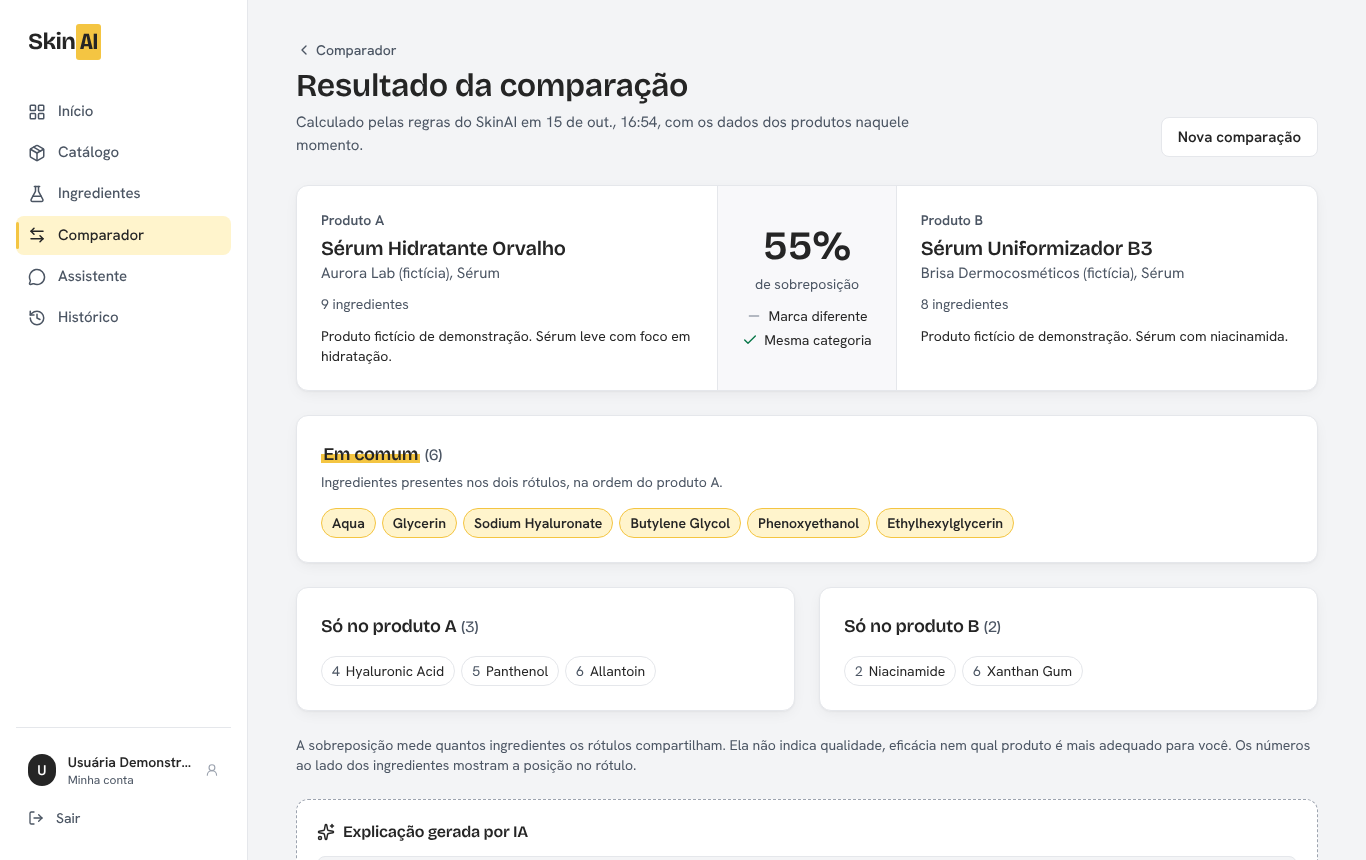
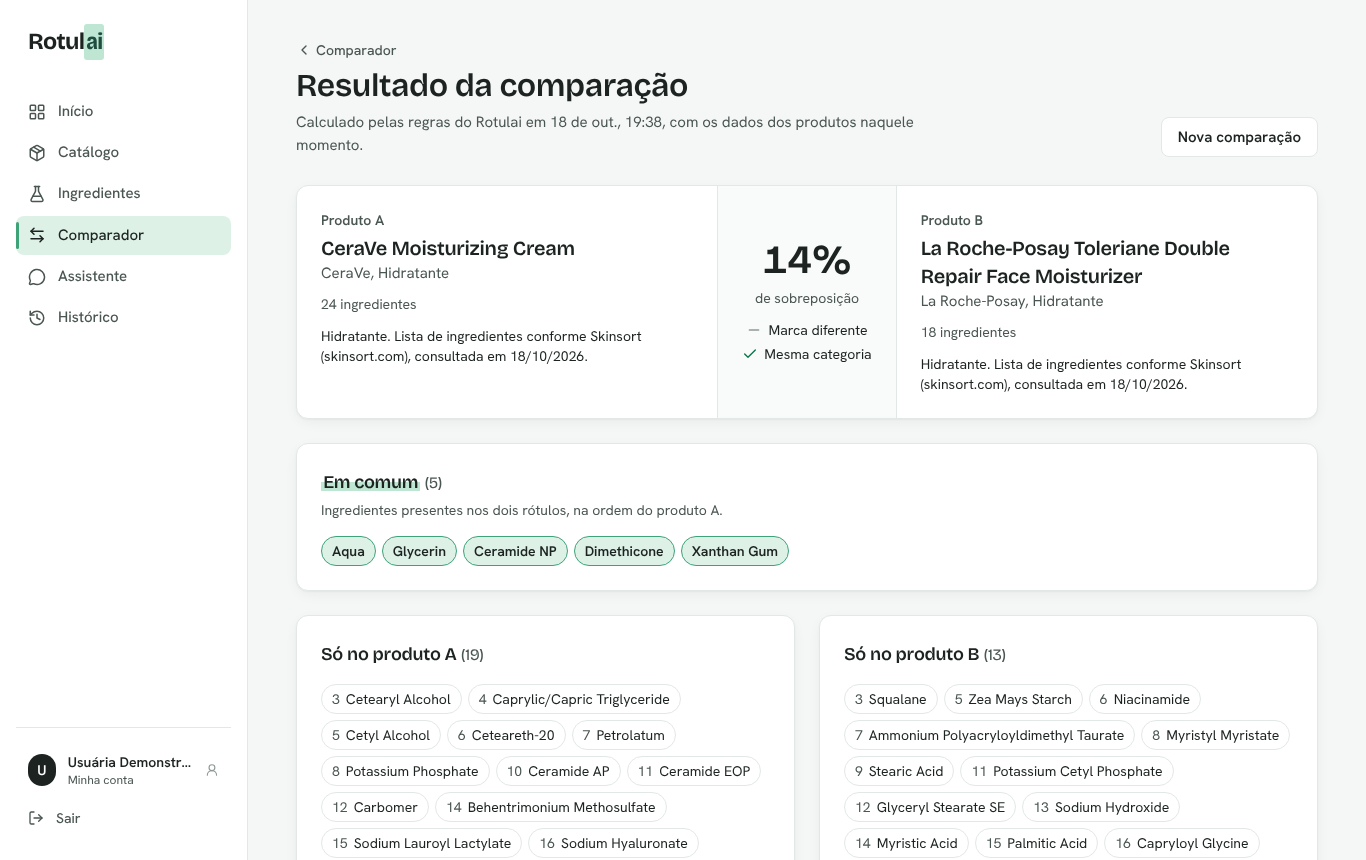
docs: atualiza README, arquitetura e capturas de tela para o Rotulai e o novo catálogo

diff --git a/README.md b/README.md
@@ -1,10 +1,10 @@
-# SkinAI
+# Rotulai
 
 Plataforma full stack para organizar cosméticos, entender ingredientes de rótulos e comparar produtos, com um assistente de inteligência artificial integrado pelo servidor.
 
-![Dashboard do SkinAI](docs/screenshots/dashboard.png)
+![Dashboard do Rotulai](docs/screenshots/dashboard.png)
 
-> **Aviso:** o SkinAI fornece informações educacionais. Não diagnostica doenças, não prescreve tratamentos, não garante ausência de alergias e não substitui a orientação de um dermatologista.
+> **Aviso:** o Rotulai fornece informações educacionais. Não diagnostica doenças, não prescreve tratamentos, não garante ausência de alergias e não substitui a orientação de um dermatologista.
 
 ## Sumário
 
@@ -24,7 +24,7 @@ Plataforma full stack para organizar cosméticos, entender ingredientes de rótu
 
 ## Problema
 
-Rótulos de cosméticos usam a nomenclatura INCI, em inglês ou latim, e listas longas de ingredientes. Quem quer entender o que está usando acaba alternando entre buscas na internet, conteúdos sem fonte e anotações soltas. O SkinAI centraliza esse fluxo:
+Rótulos de cosméticos usam a nomenclatura INCI, em inglês ou latim, e listas longas de ingredientes. Quem quer entender o que está usando acaba alternando entre buscas na internet, conteúdos sem fonte e anotações soltas. O Rotulai centraliza esse fluxo:
 
 - um catálogo pessoal com a lista de ingredientes de cada produto;
 - uma base de referência de ingredientes com conteúdo revisado e fontes para verificação;
@@ -33,15 +33,15 @@ Rótulos de cosméticos usam a nomenclatura INCI, em inglês ou latim, e listas 
 
 ## Funcionalidades
 
-| Área                  | O que faz                                                                                                                                                                                                                                                                           |
-| --------------------- | ----------------------------------------------------------------------------------------------------------------------------------------------------------------------------------------------------------------------------------------------------------------------------------- |
-| **Autenticação**      | Cadastro, login, sessão persistente com rotação de refresh token, logout e exclusão de conta com todos os dados.                                                                                                                                                                    |
-| **Dashboard**         | Saudação, indicadores reais (produtos, ingredientes consultados, comparações, conversas), atividade recente, produtos por categoria e acessos rápidos.                                                                                                                              |
-| **Catálogo**          | Listagem paginada, cadastro, edição, exclusão com confirmação, busca por nome ou marca, filtro por categoria e página de detalhes. Ingredientes são extraídos do texto do rótulo e vinculados ao catálogo global sem duplicação (inclusive por sinônimo: "Glicerina" = "Glycerin"). |
-| **Ingredientes**      | Consulta por nome INCI ou nome comum, base de referência com 30 ingredientes revisados, sinônimos, funções, uso, cuidados e fontes. Conteúdo da base e explicação da IA aparecem em blocos separados. Quando não há informação confiável, a interface informa a limitação.          |
-| **Comparador**        | Ingredientes em comum, exclusivos de cada produto, marca, categoria, descrições e percentual de sobreposição (índice de Jaccard). A IA pode explicar as diferenças, sem declarar qual produto é melhor.                                                                             |
-| **Assistente SkinAI** | Chat com histórico, sugestões iniciais, contexto opcional de até 2 produtos do catálogo, limite de caracteres, indicador de digitação e mensagens claras de indisponibilidade.                                                                                                      |
-| **Histórico**         | Consultas de ingredientes, comparações e conversas persistidas no PostgreSQL, com exclusão individual, limpeza por tipo e política de retenção visível ao usuário.                                                                                                                  |
+| Área                   | O que faz                                                                                                                                                                                                                                                                           |
+| ---------------------- | ----------------------------------------------------------------------------------------------------------------------------------------------------------------------------------------------------------------------------------------------------------------------------------- |
+| **Autenticação**       | Cadastro, login, sessão persistente com rotação de refresh token, logout e exclusão de conta com todos os dados.                                                                                                                                                                    |
+| **Dashboard**          | Saudação, indicadores reais (produtos, ingredientes consultados, comparações, conversas), atividade recente, produtos por categoria e acessos rápidos.                                                                                                                              |
+| **Catálogo**           | Listagem paginada, cadastro, edição, exclusão com confirmação, busca por nome ou marca, filtro por categoria e página de detalhes. Ingredientes são extraídos do texto do rótulo e vinculados ao catálogo global sem duplicação (inclusive por sinônimo: "Glicerina" = "Glycerin"). |
+| **Ingredientes**       | Consulta por nome INCI ou nome comum, base de referência com 30 ingredientes revisados, sinônimos, funções, uso, cuidados e fontes. Conteúdo da base e explicação da IA aparecem em blocos separados. Quando não há informação confiável, a interface informa a limitação.          |
+| **Comparador**         | Ingredientes em comum, exclusivos de cada produto, marca, categoria, descrições e percentual de sobreposição (índice de Jaccard). A IA pode explicar as diferenças, sem declarar qual produto é melhor.                                                                             |
+| **Assistente Rotulai** | Chat com histórico, sugestões iniciais, contexto opcional de até 2 produtos do catálogo, limite de caracteres, indicador de digitação e mensagens claras de indisponibilidade.                                                                                                      |
+| **Histórico**          | Consultas de ingredientes, comparações e conversas persistidas no PostgreSQL, com exclusão individual, limpeza por tipo e política de retenção visível ao usuário.                                                                                                                  |
 
 ### Telas
 
@@ -86,7 +86,7 @@ Detalhes em [docs/ARQUITETURA.md](docs/ARQUITETURA.md).
 ## Estrutura de pastas
 
 ```
-SkinAI/
+Rotulai/
 ├── backend/
 │   ├── prisma/              # schema, migrações versionadas e seed
 │   ├── src/
@@ -123,8 +123,8 @@ SkinAI/
 ### 1. Instalar dependências
 
 ```bash
-git clone https://github.com/MilenaAmaral/SkinAI.git
-cd SkinAI
+git clone https://github.com/MilenaAmaral/Rotulai.git
+cd Rotulai
 npm run setup        # instala tudo e gera o Prisma Client
 ```
 
@@ -134,7 +134,7 @@ npm run setup        # instala tudo e gera o Prisma Client
 npm run db:up        # docker compose up -d db
 ```
 
-O contêiner cria o usuário `skinai` (senha `skinai`), o banco `skinai` e o banco de testes `skinai_test`. Com um PostgreSQL próprio, crie os dois bancos e ajuste `DATABASE_URL` e `TEST_DATABASE_URL`.
+O contêiner cria o usuário `rotulai` (senha `rotulai`), o banco `rotulai` e o banco de testes `rotulai_test`. Com um PostgreSQL próprio, crie os dois bancos e ajuste `DATABASE_URL` e `TEST_DATABASE_URL`.
 
 ### 3. Configurar variáveis de ambiente
 
@@ -155,10 +155,19 @@ node -e "console.log(require('crypto').randomBytes(48).toString('hex'))"
 
 ```bash
 npm run db:migrate   # aplica as migrações (prisma migrate dev)
-npm run db:seed      # base de referência + usuária e produtos fictícios
+npm run db:seed      # base de referência + catálogo com 101 produtos reais
 ```
 
-Acesso de demonstração (fictício): **demo@skinai.dev** / **Demo@12345**.
+Acesso de demonstração (usuária fictícia): **demo@rotulai.dev** / **Demo@12345**.
+
+### Catálogo de demonstração
+
+O seed cadastra **101 produtos de skincare** de 13 marcas encontradas no Brasil (Avène, Bioderma, CeraVe, Cetaphil, Eucerin, ISDIN, La Roche-Posay, Neutrogena, Nivea, Principia, Sallve, The Ordinary e Vichy), distribuídos entre limpeza, hidratantes, séruns, protetores solares, tônicos, tratamentos e área dos olhos.
+
+- As listas de ingredientes foram copiadas das páginas públicas do [Skinsort](https://skinsort.com) em 18/10/2026. Cada produto guarda o link da página de origem (`referenceUrl`), exibido na tela de detalhes.
+- Fórmulas mudam e podem variar por país e lote. O rótulo da embalagem é sempre a fonte definitiva.
+- Os dados ficam em `backend/prisma/data/catalogo-produtos.json`, validados por teste automatizado com as mesmas regras do cadastro pela API.
+- As marcas e nomes de produtos pertencem aos respectivos titulares. O Rotulai não tem afiliação com nenhuma delas, não exibe imagens de produtos e não faz recomendação de compra.
 
 ### 5. Executar
 
@@ -190,7 +199,7 @@ Reinicie a API. Sem a chave, o assistente e os botões de explicação mostram c
 | Variável                            | Padrão                  | Descrição                                       |
 | ----------------------------------- | ----------------------- | ----------------------------------------------- |
 | `DATABASE_URL`                      | obrigatória             | Conexão PostgreSQL.                             |
-| `TEST_DATABASE_URL`                 | `.../skinai_test`       | Banco usado pelos testes.                       |
+| `TEST_DATABASE_URL`                 | `.../rotulai_test`      | Banco usado pelos testes.                       |
 | `PORT`                              | `3333`                  | Porta da API.                                   |
 | `CORS_ORIGINS`                      | `http://localhost:5173` | Origens permitidas, separadas por vírgula.      |
 | `TRUST_PROXY`                       | `0`                     | Proxies confiáveis (use `1` em Render/Railway). |
@@ -225,7 +234,7 @@ npm run typecheck
 npm run format:check
 ```
 
-Os testes do back-end usam o banco `skinai_test` (as migrações são aplicadas automaticamente). Cobrem:
+Os testes do back-end usam o banco `rotulai_test` (as migrações são aplicadas automaticamente). Cobrem:
 
 - validação de cadastro de produtos e das requisições;
 - regras determinísticas de comparação;
@@ -272,7 +281,7 @@ npm start -w backend # executa a API compilada
 
 **API (Render, Railway ou Fly.io):**
 
-- Com Docker: `docker build -f backend/Dockerfile -t skinai-api .` (a imagem aplica `prisma migrate deploy` antes de iniciar).
+- Com Docker: `docker build -f backend/Dockerfile -t rotulai-api .` (a imagem aplica `prisma migrate deploy` antes de iniciar).
 - Sem Docker: build `npm ci && npm run db:generate -w backend && npm run build -w backend`; start `npm run db:deploy -w backend && npm start -w backend`.
 - Variáveis: `NODE_ENV=production`, `DATABASE_URL`, `JWT_ACCESS_SECRET`, `CORS_ORIGINS=https://seu-front.vercel.app`, `TRUST_PROXY=1`, `ANTHROPIC_API_KEY` (opcional).
 - Health check: `GET /api/health`.
@@ -294,7 +303,7 @@ A aplicação ainda **não está publicada**. As instruções acima foram prepar
 - Senhas com bcrypt (custo 12); política mínima de 8 caracteres com letras e números.
 - Access token JWT de 15 minutos mantido **apenas em memória** no navegador (nunca em `localStorage`).
 - Refresh token opaco de 256 bits em cookie `httpOnly`, com `path=/api/auth`, armazenado no banco somente como hash SHA-256, rotacionado a cada uso; reuso de um token antigo revoga toda a família de sessões.
-- Rotas de refresh e logout exigem o cabeçalho `X-Requested-With: SkinAI`, bloqueando requisições forjadas de outros sites (CSRF).
+- Rotas de refresh e logout exigem o cabeçalho `X-Requested-With: Rotulai`, bloqueando requisições forjadas de outros sites (CSRF).
 - Autorização no servidor: toda consulta filtra por `userId`. Recursos de outro usuário retornam 404, sem revelar sua existência.
 - Validação com Zod em todas as entradas; corpo limitado a 64 KB.
 - Rate limiting global, de autenticação, de renovação de sessão e de IA (por usuário), além de cota diária de IA.
@@ -318,6 +327,7 @@ A aplicação ainda **não está publicada**. As instruções acima foram prepar
 
 ## Limitações conhecidas
 
+- O catálogo de demonstração reproduz listas de ingredientes de uma fonte pública em uma data específica; elas podem estar desatualizadas em relação ao produto vendido hoje.
 - A base de referência contém 30 ingredientes. Textos são resumos educacionais escritos para o projeto; as fontes (CosIng da Comissão Europeia e Anvisa) servem para verificação e não são citação literal.
 - Ingredientes digitados que não estão na base são criados apenas com o nome, sem descrição, e assim aparecem na interface.
 - Se um ingrediente for cadastrado por sinônimo antes da carga da base de referência, os dois registros não são unificados automaticamente.

diff --git a/docs/ARQUITETURA.md b/docs/ARQUITETURA.md
@@ -1,8 +1,8 @@
-# Arquitetura do SkinAI
+# Arquitetura do Rotulai
 
 ## Visão geral
 
-O SkinAI é um monorepo com dois workspaces npm:
+O Rotulai é um monorepo com dois workspaces npm:
 
 - `backend/`: API REST em Express 5 + TypeScript, com Prisma 7 e PostgreSQL.
 - `frontend/`: SPA em React 19 + Vite, que consome exclusivamente a API.
@@ -70,7 +70,7 @@ sequenceDiagram
   B->>A: POST /auth/login (e-mail, senha)
   A->>D: verifica hash bcrypt
   A->>D: grava SHA-256 do refresh token (familyId)
-  A-->>B: accessToken (JSON) + cookie httpOnly skinai_rt
+  A-->>B: accessToken (JSON) + cookie httpOnly rotulai_rt
   Note over B: accessToken fica só em memória
   B->>A: GET /products (Authorization: Bearer)
   A-->>B: 200
@@ -120,4 +120,4 @@ src/
 
 ### Identidade visual
 
-Conceito "marca-texto no rótulo": o amarelo (`#F4C542`) marca o que importa (ação principal, item ativo, ingredientes em comum) e nunca é usado como cor de texto sobre branco. Tipografia: Bricolage Grotesque (títulos e logotipo) e Hanken Grotesk (interface), ambas servidas localmente via Fontsource.
+Conceito "marca-texto no rótulo" com paleta verde-sálvia: verde profundo (`#1F4D3F`) para ações principais e marca, verde médio (`#3FA37A`) para detalhes decorativos e menta (`#DDF1E6` / `#BFE6D2`) como marcador suave de itens ativos e ingredientes em comum. O verde médio não é usado como cor de texto pequeno sobre branco. Tipografia: Bricolage Grotesque (títulos e logotipo) e Hanken Grotesk (interface), ambas servidas localmente via Fontsource.

diff --git a/docs/API.md b/docs/API.md
@@ -1,12 +1,12 @@
-# API do SkinAI
+# API do Rotulai
 
 Base: `/api`. Documentação interativa em `/api/docs` (Swagger UI) e especificação OpenAPI 3.1 em `/api/docs.json`.
 
 ## Autenticação
 
-1. `POST /auth/login` ou `/auth/register` retorna `{ user, accessToken }` e define o cookie `skinai_rt` (httpOnly, `path=/api/auth`).
+1. `POST /auth/login` ou `/auth/register` retorna `{ user, accessToken }` e define o cookie `rotulai_rt` (httpOnly, `path=/api/auth`).
 2. Envie `Authorization: Bearer <accessToken>` nas rotas privadas. O token expira em 15 minutos.
-3. Para renovar, chame `POST /auth/refresh` com o cookie e o cabeçalho `X-Requested-With: SkinAI`.
+3. Para renovar, chame `POST /auth/refresh` com o cookie e o cabeçalho `X-Requested-With: Rotulai`.
 
 ## Formato de erro
 
@@ -61,7 +61,7 @@ Content-Type: application/json
 }
 ```
 
-Categorias: `LIMPEZA`, `TONICO`, `SERUM`, `HIDRATANTE`, `PROTETOR_SOLAR`, `ESFOLIANTE`, `MASCARA`, `OLHOS`, `LABIOS`, `OUTRO`.
+Categorias: `LIMPEZA`, `TONICO`, `SERUM`, `HIDRATANTE`, `PROTETOR_SOLAR`, `ESFOLIANTE`, `MASCARA`, `OLHOS`, `LABIOS`, `TRATAMENTO`, `OUTRO`.
 
 ### Consultar ingrediente
 
